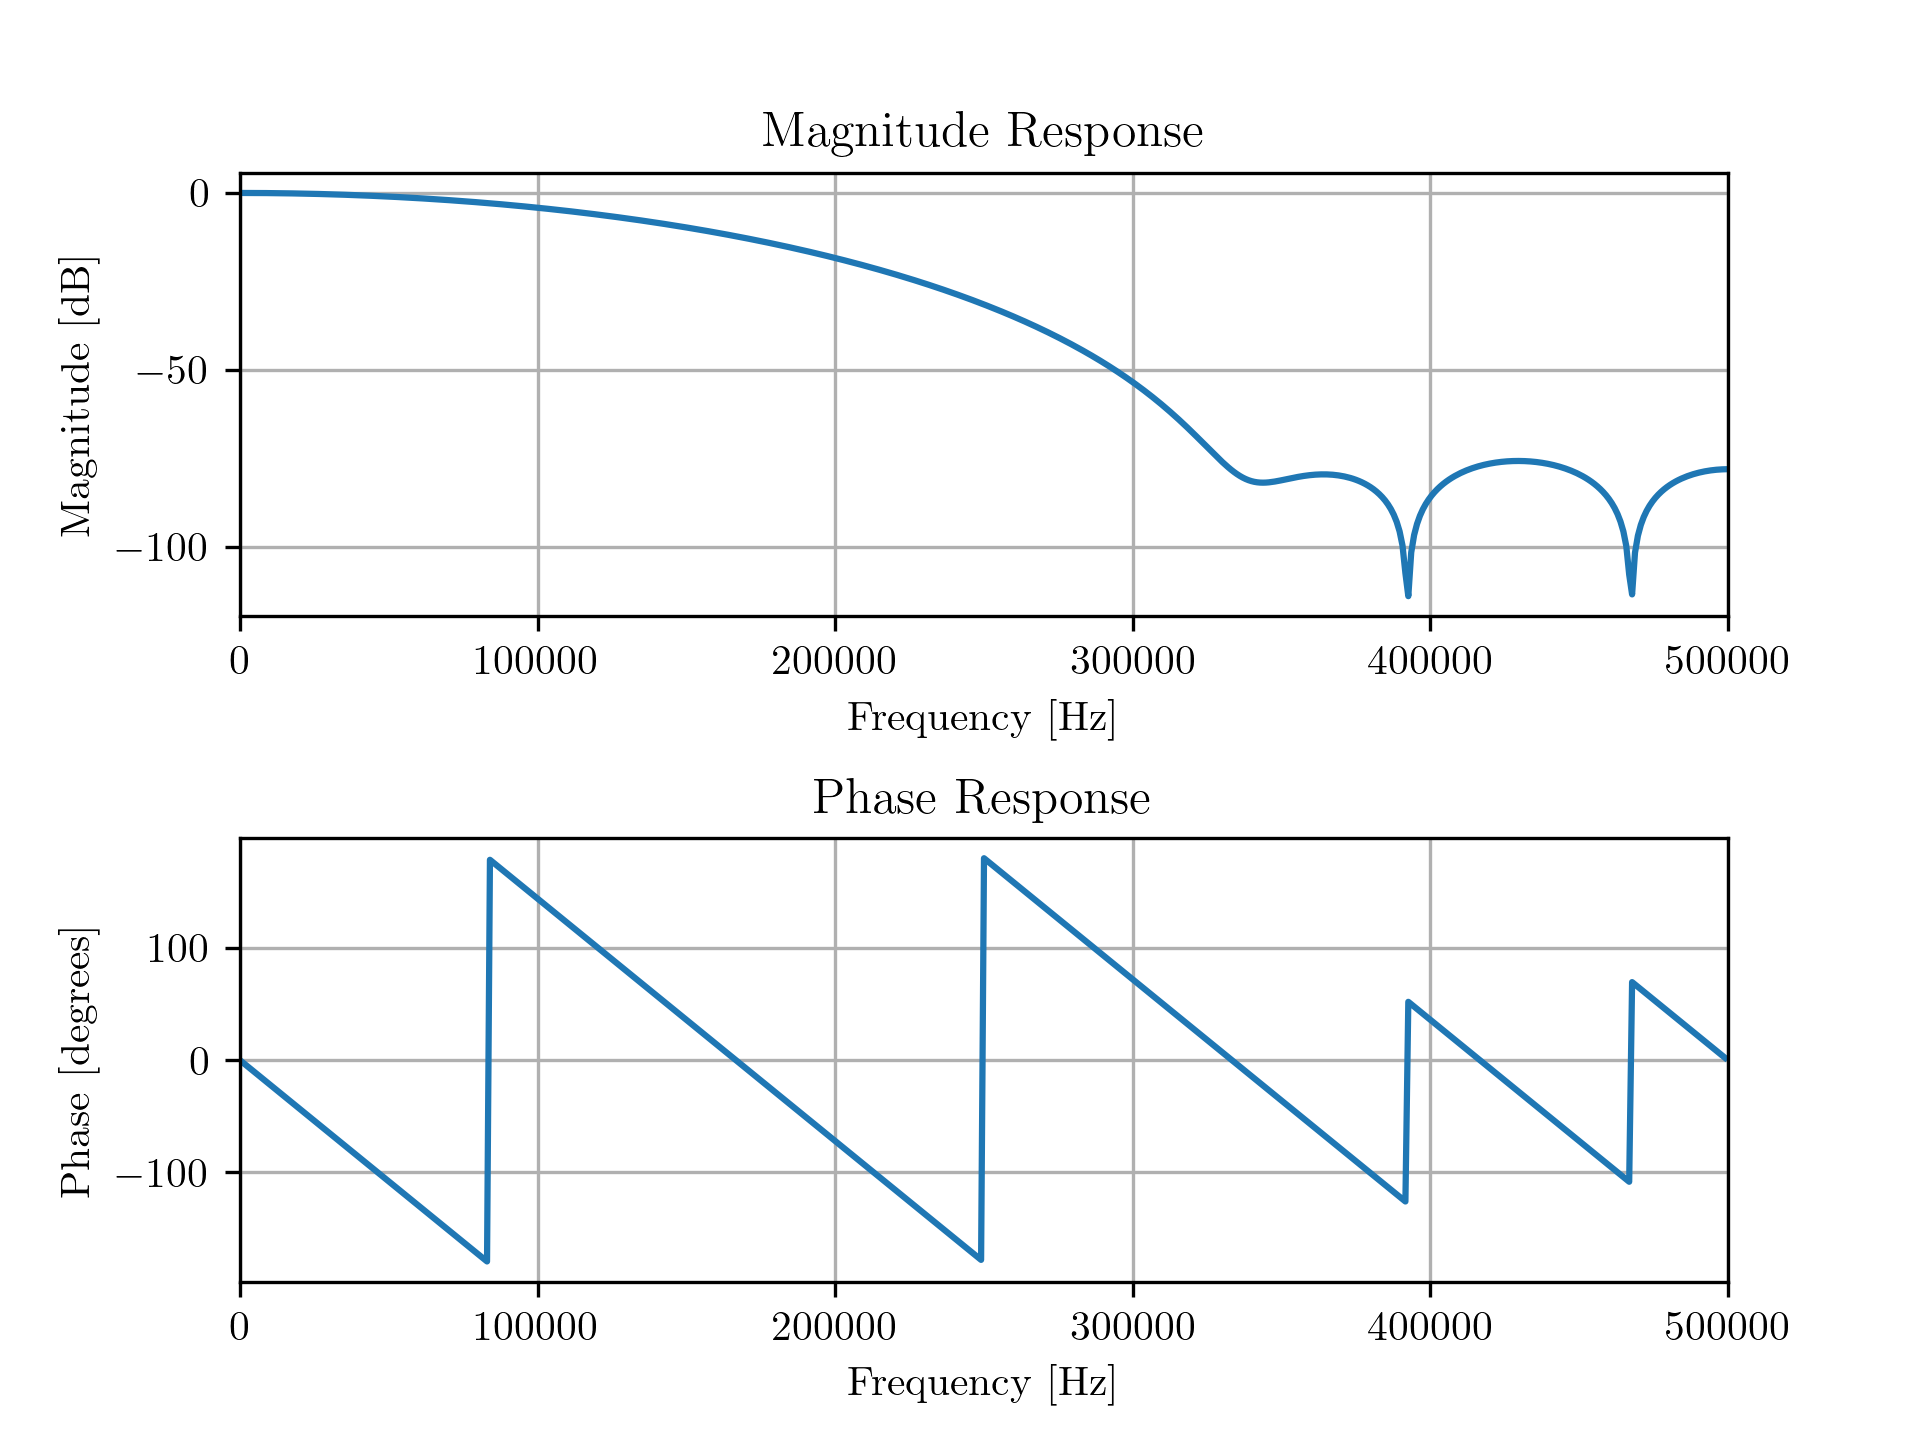
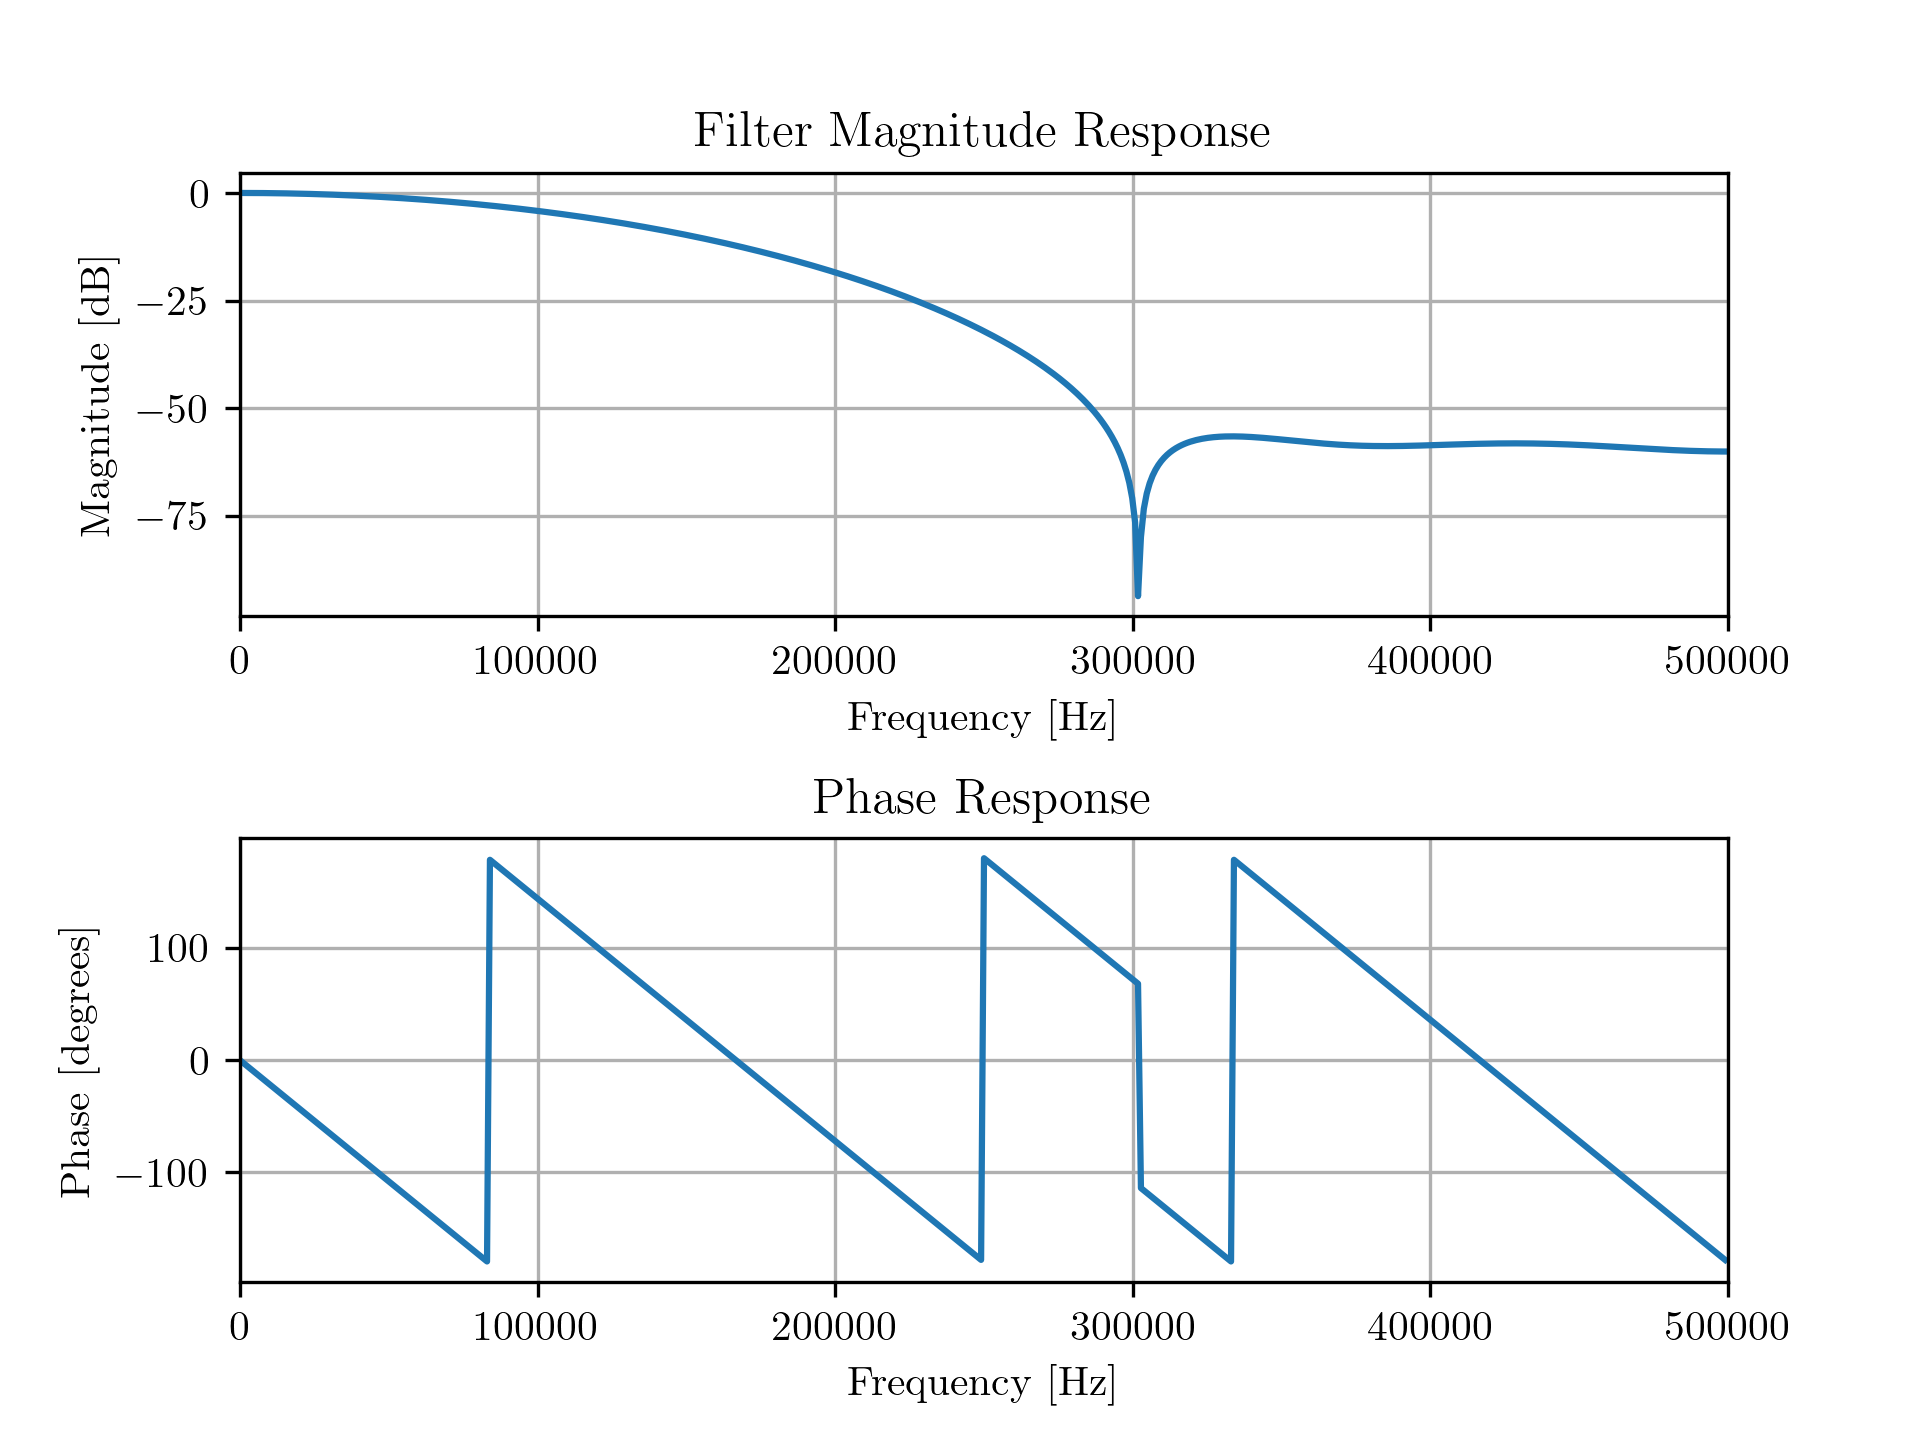
Correcciones menores al prototipo.

diff --git a/TP_Final/Prototipo/FIR_Filter_Prototype_02.py b/TP_Final/Prototipo/FIR_Filter_Prototype_02.py
@@ -44,7 +44,7 @@ def input_signal(f, f_sampling, N):
     x = np.cos(2 * np.pi * f * t)
 
     for i in range(5):
-        f_actual = 350000 + (i * 1000)  # Incrementa la frecuencia en pasos de 1000 Hz
+        f_actual = 200000 + (i * 1000)  # Incrementa la frecuencia en pasos de 1000 Hz
         x = x + np.cos(2 * np.pi * f_actual * t)
 
     # Add noise
@@ -91,7 +91,7 @@ def plot_fir_response(h, f_sampling):
     plt.figure()
     plt.subplot(2, 1, 1)
     plt.plot(freq_hz, mag_response_db)
-    plt.title('Filter Magnitude Response', fontsize=12)
+    plt.title('Magnitude Response', fontsize=12)
     plt.ylabel('Magnitude [dB]', fontsize=10)
     plt.xlabel('Frequency [Hz]', fontsize=10)
     plt.xlim([0, 5*f_cutoff]) # Set x-axis limits
@@ -110,21 +110,19 @@ def plot_fir_response(h, f_sampling):
     plt.subplots_adjust(hspace=0.5)
 
     # Save plot as .png file and display it
-    plt.savefig('Plots/P01_Plot_01.png', dpi=300) # Save plot as .png file
+    plt.savefig('Plots/P03_Plot_01.png', dpi=300) # Save plot as .png file
 
     # Grafica la magnitud de la respuesta en frecuencia sola
     plt.figure()
     plt.plot(freq_hz, mag_response_db)
-    plt.title('Filter Magnitude Response', fontsize=12)
+    plt.title('Magnitude Response', fontsize=12)
     plt.ylabel('Magnitude [dB]', fontsize=10)
     plt.xlabel('Frequency [Hz]', fontsize=10)
     plt.xlim([0, 5*f_cutoff]) # Set x-axis limits
-    plt.ylim([-90, 0]) # Set y-axis limits
-    plt.yticks(np.arange(-96, 1, 12)) 
     plt.grid()
 
     # Save plot as .png file and display it
-    plt.savefig('Plots/P01_Plot_02.png', dpi=300) # Save plot as .png file
+    plt.savefig('Plots/P03_Plot_02.png', dpi=300) # Save plot as .png file
  
 # ---------------------------------------------------------------------------------------------- #
 
@@ -159,7 +157,7 @@ def plot_input_output(x,y):
     plt.subplots_adjust(hspace=0.5)
 
     # Save plot as .png file and display it
-    plt.savefig('Plots/P01_Plot_00.png', dpi=300) # Save plot as .png file
+    plt.savefig('Plots/P03_Plot_00.png', dpi=300) # Save plot as .png file
 
 # ---------------------------------------------------------------------------------------------- #
 
@@ -174,8 +172,8 @@ f_sampling = 1000000 # Sampling frequency.
 f_cutoff = 100000 # Cutoff frequency 
 
 # Generate filter coefficients.
-# h = filter_response(f_cutoff/f_sampling, M)
-h = np.array([0, 0, 75, 430, 1200, 2100, 2500, 2100, 1200, 430, 75, 0, 0])
+h = filter_response(f_cutoff/f_sampling, M)
+# h = np.array([0, 0.02, 0.1, 0.23, 0.3, 0.23, 0.1, 0.02, 0])*100
 sum_coefficients = np.sum(h)
 print(h)
 
@@ -189,10 +187,8 @@ for i in range(M, N):
     # Convolve filter with signal.
     y[i] = np.sum(h * x[i-M+1:i+1])
 
-y = y/sum_coefficients
-h = h/10000
-
-print(sum_coefficients)
+# y = y/sum_coefficients
+# h = h/100
 
 plot_input_output(x,y)
 
